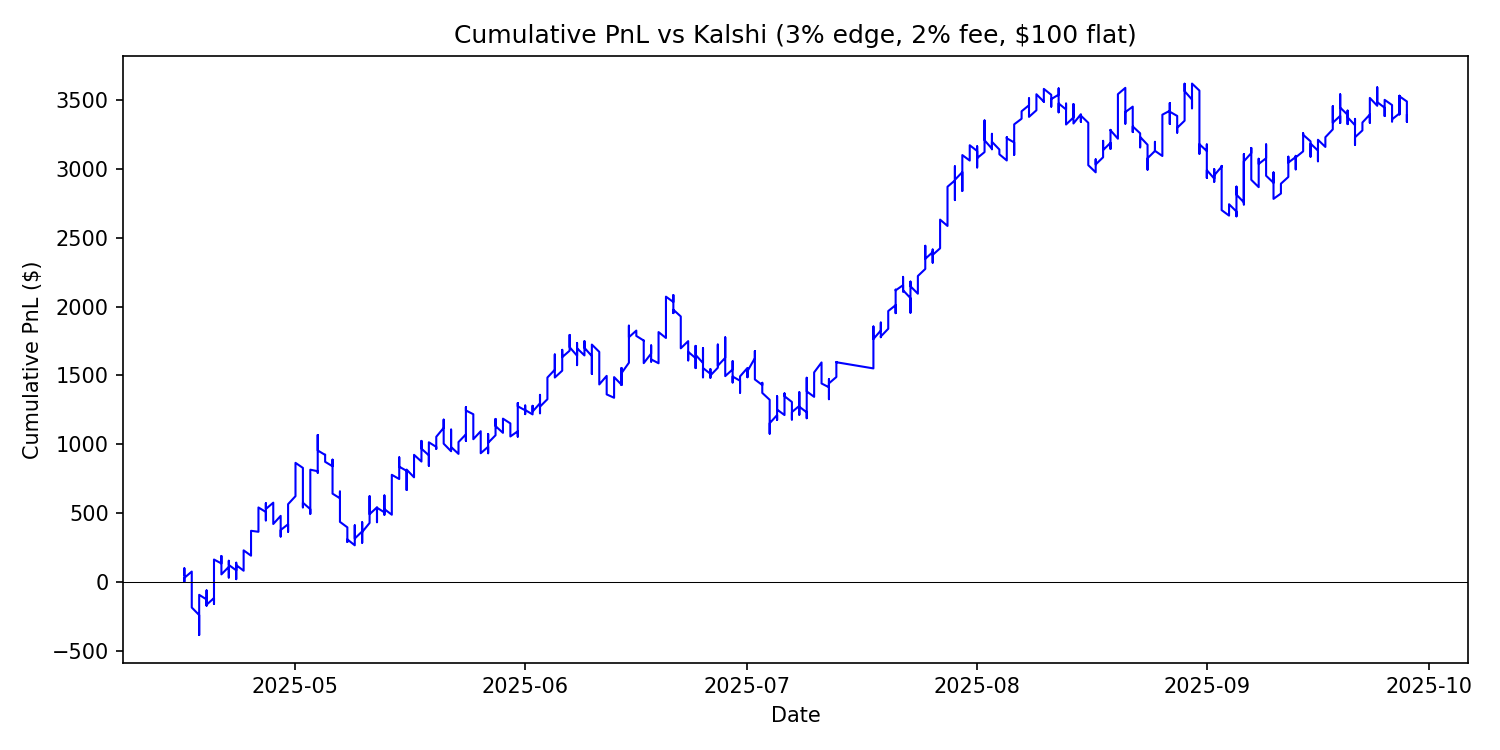
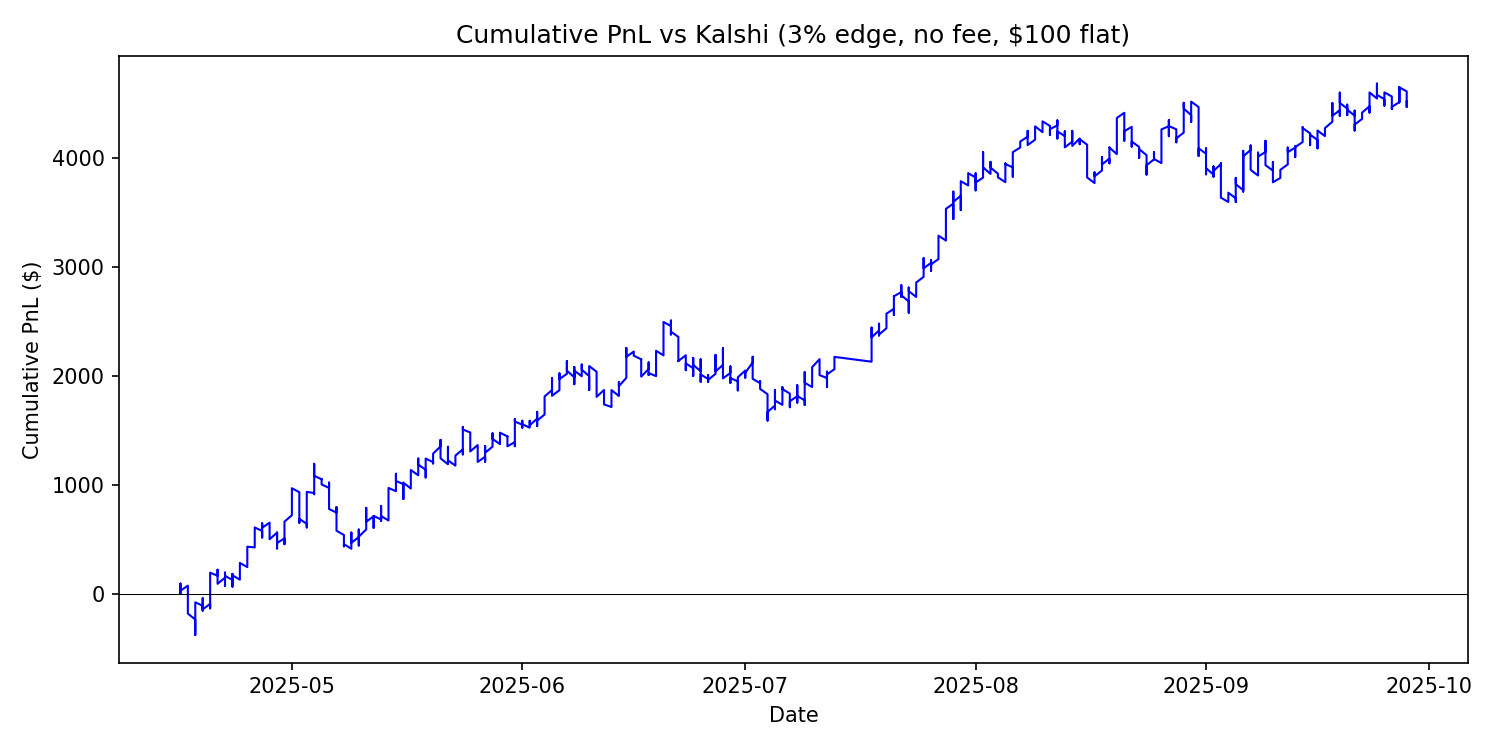
Remove fees from all backtest ROI simulations
Default fee_pct changed from 0.02 to 0.0 in all PnL functions
(audit.py, compare_vs_market.py, build_full_csv.py). Removed fee
sensitivity table from compare_vs_market.py. Regenerated audit outputs.

3% edge ROI: +3.6% (was +2.7%), bootstrap CI [+0.8%, +6.2%], p(ROI>0)=0.995.

diff --git a/src/compare_vs_market.py b/src/compare_vs_market.py
@@ -169,10 +169,8 @@ def _sharpe(pnls, days_in_sample=None):
     return (mean / std) * np.sqrt(len(pnls))
 
 
-def _compute_bet_pnl(edge, market_prob, outcome, fee_pct=0.02):
-    """Compute PnL for a single flat $100 bet with fees.
-    fee_pct: total round-trip cost as fraction of contract cost.
-    """
+def _compute_bet_pnl(edge, market_prob, outcome, fee_pct=0.0):
+    """Compute PnL for a single flat $100 bet."""
     if edge > 0:
         cost = market_prob * 100
         fee = cost * fee_pct
@@ -268,7 +266,7 @@ def evaluate_vs_market(results_df, model_col, market_col, label=""):
         for i in range(len(df)):
             e = edge[i]
             if abs(e) >= min_edge:
-                pnls.append(_compute_bet_pnl(e, market_probs[i], y[i], fee_pct=0.02))
+                pnls.append(_compute_bet_pnl(e, market_probs[i], y[i]))
         if pnls:
             total_pnl = sum(pnls)
             n_bets = len(pnls)
@@ -284,21 +282,6 @@ def evaluate_vs_market(results_df, model_col, market_col, label=""):
             print(f"  {min_edge:>6.0%} {n_bets:>6d} ${total_pnl:>+9.0f} "
                   f"{roi:>+7.1%} {sharpe:>8.2f} {wr:>7.1%}")
 
-    # Fee sensitivity table
-    print(f"\n  Fee Sensitivity (ROI at different fee levels):")
-    print(f"  {'Edge':>7s} {'0% fee':>10s} {'1% fee':>10s} {'2% fee':>10s}")
-    print(f"  {'-'*39}")
-    for min_edge in EDGE_THRESHOLDS:
-        row_parts = [f"  {min_edge:>6.0%}"]
-        for fee in [0.0, 0.01, 0.02]:
-            pnls = [_compute_bet_pnl(edge[i], market_probs[i], y[i], fee)
-                    for i in range(len(df)) if abs(edge[i]) >= min_edge]
-            if pnls:
-                roi = sum(pnls) / (len(pnls) * 100)
-                row_parts.append(f"{roi:>+9.1%}")
-            else:
-                row_parts.append(f"{'---':>10s}")
-        print(" ".join(row_parts))
 
 
 def detailed_roi_analysis(df, model_col, market_col, label=""):
@@ -342,7 +325,7 @@ def detailed_roi_analysis(df, model_col, market_col, label=""):
         pnls = []
         for i in range(len(m_edge)):
             if abs(m_edge[i]) >= edge_default:
-                pnls.append(_compute_bet_pnl(m_edge[i], m_market[i], m_y[i], fee_pct=0.02))
+                pnls.append(_compute_bet_pnl(m_edge[i], m_market[i], m_y[i]))
 
         n_bets = len(pnls)
         if n_bets > 0:
@@ -434,7 +417,7 @@ def _write_pnl_csv(df, model_probs, market_probs, edge, y, label):
             continue
         bet_side = "home" if edge[i] > 0 else "away"
         result = int((edge[i] > 0 and y[i] == 1) or (edge[i] < 0 and y[i] == 0))
-        pnl = _compute_bet_pnl(edge[i], market_probs[i], y[i], fee_pct=0.02)
+        pnl = _compute_bet_pnl(edge[i], market_probs[i], y[i])
         cumulative += pnl
         rows.append({
             "game_date": df.iloc[i].get("game_date", ""),

diff --git a/src/audit.py b/src/audit.py
@@ -567,8 +567,8 @@ def early_vs_late_analysis(wf_df, n_boot=5000):
 
 # ── Market comparison ────────────────────────────────────────────────────────
 
-def _compute_bet_pnl(edge, market_prob, outcome, fee_pct=0.02):
-    """PnL for $100 flat bet with fees."""
+def _compute_bet_pnl(edge, market_prob, outcome, fee_pct=0.0):
+    """PnL for $100 flat bet."""
     if edge > 0:
         cost = market_prob * 100
         fee = cost * fee_pct
@@ -760,7 +760,7 @@ def generate_plots(wf_df, cal_data, ablation_df, market_data, output_dir):
             fig, ax = plt.subplots(figsize=(10, 5))
             ax.plot(bet_dates, cum_pnl, "b-", linewidth=1)
             ax.axhline(y=0, color="black", linewidth=0.5)
-            ax.set_title("Cumulative PnL vs Kalshi (3% edge, 2% fee, $100 flat)")
+            ax.set_title("Cumulative PnL vs Kalshi (3% edge, no fee, $100 flat)")
             ax.set_ylabel("Cumulative PnL ($)")
             ax.set_xlabel("Date")
             fig.tight_layout()
@@ -970,7 +970,7 @@ def generate_markdown_report(wf_df, bootstrap_results, cal_data, cal_data_cal,
                              f"[{b['ci_lo']:+.5f}, {b['ci_hi']:+.5f}] p={b['p_value']:.3f}{sig}\n")
 
         # ROI
-        lines.append("\n### ROI Simulation ($100 flat, 2% fee)\n")
+        lines.append("\n### ROI Simulation ($100 flat, no fee)\n")
         lines.append("| Edge | Bets | PnL | ROI | Win Rate |\n")
         lines.append("|------|------|-----|-----|----------|\n")
         for threshold in [3, 5, 7, 10]:
@@ -1017,7 +1017,7 @@ def generate_markdown_report(wf_df, bootstrap_results, cal_data, cal_data_cal,
     lines.append("\n### What is fragile\n")
     lines.append("- Early-season predictions (first 30 days) have notably higher log loss\n")
     lines.append("- 2025 Kalshi comparison is a single season — need more years of market data\n")
-    lines.append("- ROI depends on edge threshold and fee assumptions\n")
+    lines.append("- ROI depends on edge threshold; fees not included in simulation\n")
 
     lines.append("\n### What to do next\n")
     lines.append("- Collect Kalshi/market data for 2024 to validate market comparison out-of-sample\n")

diff --git a/src/build_full_csv.py b/src/build_full_csv.py
@@ -147,8 +147,8 @@ def predict(lr, scaler, xgb_model, lr_features, xgb_features, test_df, w_lr=0.5,
     return ens_probs
 
 
-def compute_bet_pnl(edge, market_prob, outcome, fee_pct=0.02):
-    """PnL for a flat $100 notional bet with fees."""
+def compute_bet_pnl(edge, market_prob, outcome, fee_pct=0.0):
+    """PnL for a flat $100 notional bet."""
     if edge > 0:
         cost = market_prob * 100
         fee = cost * fee_pct

diff --git a/data/audit/AUDIT_REPORT.md b/data/audit/AUDIT_REPORT.md
@@ -1,5 +1,5 @@
 # MLB Win Probability Model — Audit Report
-Generated: 2026-03-29 16:04
+Generated: 2026-03-29 16:34
 ## 1. Leakage Audit
 **Finding 1 (FIXED):** `compare_vs_market.py` and `build_full_csv.py` computed blend weight on in-sample predictions. Both now use 5-fold chronological OOF, matching `win_model.py`.
 **Finding 2 (MINOR):** `add_nonlinear_features` z-scores `prior_dominance` using batch statistics. For XGB (tree-based, rank-invariant), this has no practical impact. No fix needed.
@@ -117,21 +117,21 @@ Correlation: 0.7851
 - **log_loss** delta: -0.00232 [-0.00850, +0.00353] p=0.234
 - **brier** delta: -0.00081 [-0.00341, +0.00175] p=0.281
 
-### ROI Simulation ($100 flat, 2% fee)
+### ROI Simulation ($100 flat, no fee)
 | Edge | Bets | PnL | ROI | Win Rate |
 |------|------|-----|-----|----------|
-| 3% | 1269 | $+3,390 | +2.7% | 47.8% |
-| 5% | 780 | $+2,192 | +2.8% | 46.8% |
-| 7% | 433 | $+2,182 | +5.0% | 47.6% |
-| 10% | 161 | $+1,360 | +8.4% | 47.2% |
+| 3% | 1269 | $+4,514 | +3.6% | 47.8% |
+| 5% | 780 | $+2,865 | +3.7% | 46.8% |
+| 7% | 433 | $+2,543 | +5.9% | 47.6% |
+| 10% | 161 | $+1,482 | +9.2% | 47.2% |
 
-3% edge ROI bootstrap: [-0.1%, +5.4%], p(ROI>0)=0.969
+3% edge ROI bootstrap: [+0.8%, +6.2%], p(ROI>0)=0.995
 
 ### Edge by Side (3% threshold)
 | Side | Bets | PnL | ROI | Win Rate |
 |------|------|-----|-----|----------|
-| home | 519 | $+1,629 | +3.1% | 52.2% |
-| away | 750 | $+1,762 | +2.3% | 44.8% |
+| home | 519 | $+2,128 | +4.1% | 52.2% |
+| away | 750 | $+2,386 | +3.2% | 44.8% |
 
 ![Cumulative PnL](cumulative_pnl_2025.png)
 
@@ -144,7 +144,7 @@ Correlation: 0.7851
 ### What is fragile
 - Early-season predictions (first 30 days) have notably higher log loss
 - 2025 Kalshi comparison is a single season — need more years of market data
-- ROI depends on edge threshold and fee assumptions
+- ROI depends on edge threshold; fees not included in simulation
 
 ### What to do next
 - Collect Kalshi/market data for 2024 to validate market comparison out-of-sample
